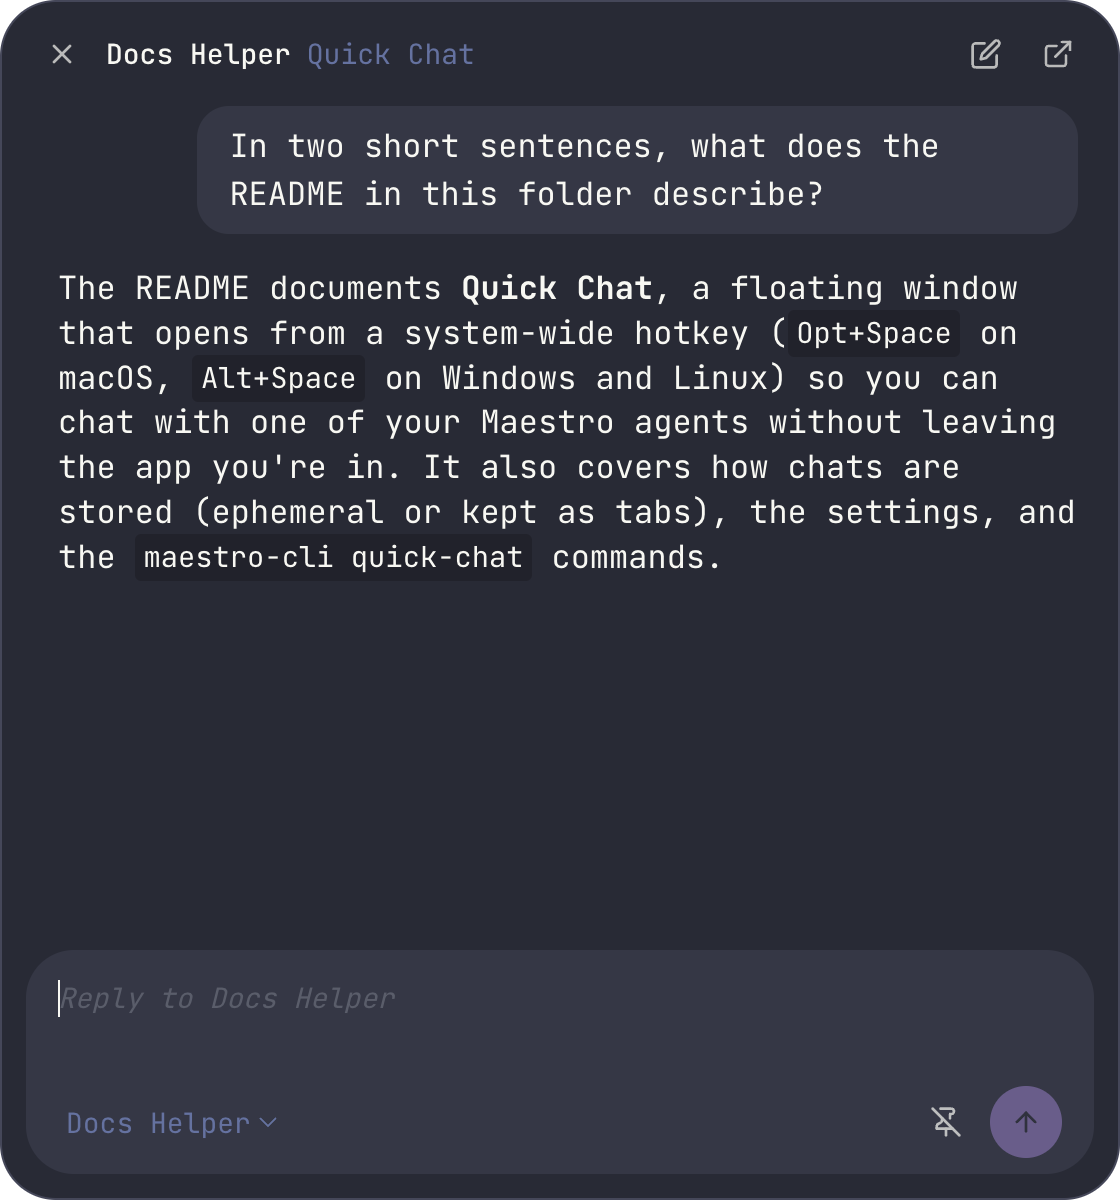
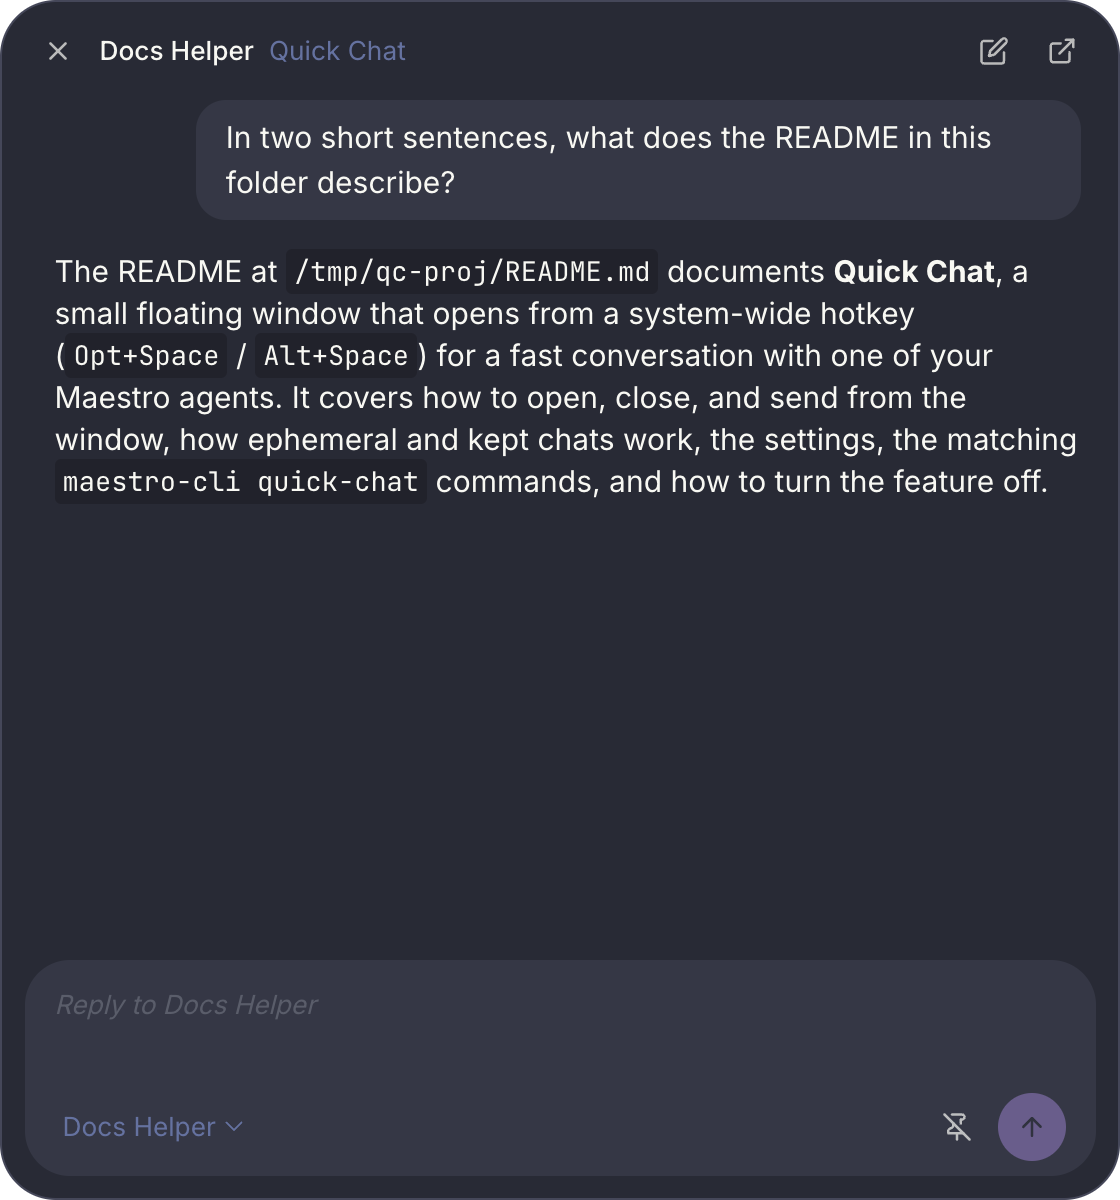
fix(quick-chat): honor the user's typography and follow settings changes
The Quick Chat window boots its own renderer and never ran useSettings, so
it loaded settings once and then ignored them: every glyph came out in the
store-default monospace face whatever typography the user had picked, and a
theme or font changed in the main window never reached it.

The two settings side effects every window needs, publishing the typography
CSS variables and reloading on settings:externalChange, move out of
useSettings into useWindowSettingsSync. useSettings calls the halves, and
QuickChatRoot calls the whole hook, so both windows share one effect.

Re-shoots the docs screenshot in the Default typography preset, and records
in SCREENSHOT-CAPTURE.md that one-off shots follow the same rule.

diff --git a/src/renderer/hooks/settings/useWindowSettingsSync.ts b/src/renderer/hooks/settings/useWindowSettingsSync.ts
@@ -1,0 +1,102 @@
+/**
+ * The settings side effects every renderer window needs, whatever it renders.
+ *
+ * The main window gets these through `useSettings`. A secondary window that
+ * boots its own renderer and mounts a single view (Quick Chat) does not run
+ * `useSettings`, and before these were pulled out of it that window loaded the
+ * settings once and then ignored them: its text came out in the store-default
+ * monospace face whatever typography the user had picked, and a theme or font
+ * changed in the main window never reached it.
+ */
+
+import { useEffect } from 'react';
+import { useStoreWithEqualityFn } from 'zustand/traditional';
+import { shallow } from 'zustand/shallow';
+import { loadAllSettings, useSettingsStore, type SettingsStore } from '../../stores/settingsStore';
+import { applyTypographyVars } from '../../utils/applyTypographyVars';
+import { logger } from '../../utils/logger';
+
+const selectTypography = (s: SettingsStore) => ({
+	settingsLoaded: s.settingsLoaded,
+	fontFamily: s.fontFamily,
+	chatFontFamily: s.chatFontFamily,
+	terminalFontFamily: s.terminalFontFamily,
+	filePreviewFontFamily: s.filePreviewFontFamily,
+	fileEditorFontFamily: s.fileEditorFontFamily,
+	documentGraphFontFamily: s.documentGraphFontFamily,
+	fontSize: s.fontSize,
+	chatFontSize: s.chatFontSize,
+	terminalFontSize: s.terminalFontSize,
+	filePreviewFontSize: s.filePreviewFontSize,
+	fileEditorFontSize: s.fileEditorFontSize,
+	documentGraphFontSize: s.documentGraphFontSize,
+	fontZoom: s.fontZoom,
+});
+
+/**
+ * Publish the resolved typography as CSS custom properties on the document
+ * root, and set the root font-size so rem-based Tailwind spacing scales.
+ *
+ * The custom properties are how a font setting reaches surfaces no prop can
+ * carry: everything that portals to document.body and every `font-mono`
+ * utility. See applyTypographyVars.
+ *
+ * Gated on settingsLoaded so the window does not paint at the default size and
+ * then jump to the saved one.
+ */
+export function usePublishTypographyVars(): void {
+	const t = useStoreWithEqualityFn(useSettingsStore, selectTypography, shallow);
+	useEffect(() => {
+		if (!t.settingsLoaded) return;
+		applyTypographyVars({
+			fonts: {
+				interface: t.fontFamily,
+				chat: t.chatFontFamily,
+				terminal: t.terminalFontFamily,
+				filePreview: t.filePreviewFontFamily,
+				fileEditor: t.fileEditorFontFamily,
+				documentGraph: t.documentGraphFontFamily,
+			},
+			sizes: {
+				interface: t.fontSize,
+				chat: t.chatFontSize,
+				terminal: t.terminalFontSize,
+				filePreview: t.filePreviewFontSize,
+				fileEditor: t.fileEditorFontSize,
+				documentGraph: t.documentGraphFontSize,
+			},
+			baseSize: t.fontSize,
+			zoom: t.fontZoom,
+		});
+	}, [t]);
+}
+
+/**
+ * Reload settings when they change outside this window: `maestro-cli settings
+ * set`, a hand edit of the file, or a write from another window (main notifies
+ * every peer window, never the writer itself).
+ */
+export function useReloadSettingsOnExternalChange(): void {
+	useEffect(() => {
+		if (!window.maestro?.settings?.onExternalChange) {
+			return;
+		}
+		const cleanup = window.maestro.settings.onExternalChange(() => {
+			logger.info('[Settings] External settings change detected, reloading');
+			loadAllSettings();
+		});
+		return cleanup;
+	}, []);
+}
+
+/**
+ * Everything a secondary renderer window needs to honor the user's settings:
+ * load them once, follow changes made elsewhere, and publish the typography.
+ */
+export function useWindowSettingsSync(): void {
+	useEffect(() => {
+		void loadAllSettings();
+	}, []);
+	useReloadSettingsOnExternalChange();
+	usePublishTypographyVars();
+}

diff --git a/src/__tests__/renderer/hooks/useWindowSettingsSync.test.ts b/src/__tests__/renderer/hooks/useWindowSettingsSync.test.ts
@@ -1,0 +1,76 @@
+/**
+ * useWindowSettingsSync - the settings side effects a secondary window (Quick
+ * Chat) needs without running useSettings. Before it existed that window
+ * loaded settings once and never applied them: its text stayed in the
+ * store-default monospace face whatever typography the user picked, and a
+ * change made in the main window never reached it.
+ */
+
+import { describe, it, expect, vi, beforeEach, afterEach } from 'vitest';
+import { renderHook, act, waitFor } from '@testing-library/react';
+import { useWindowSettingsSync } from '../../../renderer/hooks/settings/useWindowSettingsSync';
+import { useSettingsStore } from '../../../renderer/stores/settingsStore';
+
+const SANS = 'Inter, sans-serif';
+
+describe('useWindowSettingsSync', () => {
+	let originalFontSize: string;
+
+	beforeEach(() => {
+		useSettingsStore.setState({
+			settingsLoaded: false,
+			fontFamily: 'Roboto Mono, Menlo, "Courier New", monospace',
+			fontSize: 14,
+		});
+		vi.clearAllMocks();
+		originalFontSize = document.documentElement.style.fontSize;
+		vi.mocked(window.maestro.settings.getAll).mockResolvedValue({ fontFamily: SANS, fontSize: 16 });
+		vi.mocked(window.maestro.settings.get).mockResolvedValue(undefined);
+		vi.mocked(window.maestro.settings.onExternalChange).mockReturnValue(() => {});
+	});
+
+	afterEach(() => {
+		document.documentElement.style.fontSize = originalFontSize;
+		document.documentElement.style.removeProperty('--maestro-font-interface');
+	});
+
+	it('loads settings and publishes the saved typography on the document root', async () => {
+		renderHook(() => useWindowSettingsSync());
+
+		await waitFor(() => expect(useSettingsStore.getState().settingsLoaded).toBe(true));
+		await waitFor(() => expect(document.documentElement.style.fontSize).toBe('16px'));
+		expect(document.documentElement.style.getPropertyValue('--maestro-font-interface')).toContain(
+			'Inter'
+		);
+	});
+
+	it('follows a typography change made after load', async () => {
+		renderHook(() => useWindowSettingsSync());
+		await waitFor(() => expect(document.documentElement.style.fontSize).toBe('16px'));
+
+		act(() => {
+			useSettingsStore.setState({ fontSize: 18 });
+		});
+
+		expect(document.documentElement.style.fontSize).toBe('18px');
+	});
+
+	it('reloads settings when another window or the CLI changes them', async () => {
+		let notify: (() => void) | undefined;
+		vi.mocked(window.maestro.settings.onExternalChange).mockImplementation(
+			(handler: () => void) => {
+				notify = handler;
+				return () => {};
+			}
+		);
+
+		renderHook(() => useWindowSettingsSync());
+		await waitFor(() => expect(document.documentElement.style.fontSize).toBe('16px'));
+		expect(notify).toBeTypeOf('function');
+
+		vi.mocked(window.maestro.settings.getAll).mockResolvedValue({ fontFamily: SANS, fontSize: 20 });
+		act(() => notify?.());
+
+		await waitFor(() => expect(document.documentElement.style.fontSize).toBe('20px'));
+	});
+});

diff --git a/src/renderer/hooks/settings/useSettings.ts b/src/renderer/hooks/settings/useSettings.ts
@@ -52,7 +52,10 @@ import { logger } from '../../utils/logger';
 import type { TypographySurface } from '../../../shared/typography';
 import type { TypographyPresetId } from '../../../shared/typographyPresets';
 import type { TypographySnapshot } from '../../../shared/typographySnapshot';
-import { applyTypographyVars } from '../../utils/applyTypographyVars';
+import {
+	usePublishTypographyVars,
+	useReloadSettingsOnExternalChange,
+} from './useWindowSettingsSync';
 
 export interface UseSettingsReturn {
 	// Loading state
@@ -613,65 +616,9 @@ export function useSettings(): UseSettingsReturn {
 		return cleanup;
 	}, []);
 
-	// Reload settings when external change detected (e.g., maestro-cli settings set)
-	useEffect(() => {
-		if (!window.maestro?.settings?.onExternalChange) {
-			return;
-		}
-		const cleanup = window.maestro.settings.onExternalChange(() => {
-			logger.info('[Settings] External settings change detected, reloading');
-			loadAllSettings();
-		});
-		return cleanup;
-	}, []);
-
-	// Publish the resolved typography as CSS custom properties on the document
-	// root, and set the root font-size so rem-based Tailwind spacing scales.
-	//
-	// The custom properties are how a font setting reaches surfaces no prop can
-	// carry: everything that portals to document.body (47 components) and every
-	// `font-mono` utility (~200 sites). See applyTypographyVars.
-	//
-	// Gated on settingsLoaded so the app does not paint at the default size and
-	// then jump to the saved one.
-	useEffect(() => {
-		if (!store.settingsLoaded) return;
-		applyTypographyVars({
-			fonts: {
-				interface: store.fontFamily,
-				chat: store.chatFontFamily,
-				terminal: store.terminalFontFamily,
-				filePreview: store.filePreviewFontFamily,
-				fileEditor: store.fileEditorFontFamily,
-				documentGraph: store.documentGraphFontFamily,
-			},
-			sizes: {
-				interface: store.fontSize,
-				chat: store.chatFontSize,
-				terminal: store.terminalFontSize,
-				filePreview: store.filePreviewFontSize,
-				fileEditor: store.fileEditorFontSize,
-				documentGraph: store.documentGraphFontSize,
-			},
-			baseSize: store.fontSize,
-			zoom: store.fontZoom,
-		});
-	}, [
-		store.settingsLoaded,
-		store.fontFamily,
-		store.chatFontFamily,
-		store.terminalFontFamily,
-		store.filePreviewFontFamily,
-		store.fileEditorFontFamily,
-		store.documentGraphFontFamily,
-		store.fontSize,
-		store.chatFontSize,
-		store.terminalFontSize,
-		store.filePreviewFontSize,
-		store.fileEditorFontSize,
-		store.documentGraphFontSize,
-		store.fontZoom,
-	]);
+	// Shared with every secondary window (see useWindowSettingsSync).
+	useReloadSettingsOnExternalChange();
+	usePublishTypographyVars();
 
 	// Surface global-hotkey registration failures (e.g. combo already owned by
 	// another app). Mounted here so the toast fires even when Settings is closed.

diff --git a/src/renderer/quickChat/QuickChatRoot.tsx b/src/renderer/quickChat/QuickChatRoot.tsx
@@ -20,7 +20,7 @@ import {
 	type QuickChatSnapshot,
 } from '../../shared/quickChat';
 import { formatDurationHuman } from '../../shared/duration';
-import { loadAllSettings } from '../stores/settingsStore';
+import { useWindowSettingsSync } from '../hooks/settings/useWindowSettingsSync';
 import { useResolvedTheme } from '../hooks/ui/useResolvedTheme';
 import { useStickToBottom } from '../hooks/ui/useStickToBottom';
 import { useAutosizeTextarea } from '../hooks/ui/useAutosizeTextarea';
@@ -117,10 +117,9 @@ export function QuickChatRoot() {
 	const [error, setError] = useState<string | null>(null);
 	const textareaRef = useRef<HTMLTextAreaElement>(null);
 
-	// This window boots its own renderer, so hydrate settings (the theme) here.
-	useEffect(() => {
-		void loadAllSettings();
-	}, []);
+	// This window boots its own renderer and never runs useSettings: load the
+	// settings, follow changes made in the main window, and apply the typography.
+	useWindowSettingsSync();
 
 	useEffect(() => {
 		const offSnapshot = window.maestro.quickChat.onSnapshot(setSnapshot);

diff --git a/docs/agent-guides/CANONICAL-UTILITIES.md b/docs/agent-guides/CANONICAL-UTILITIES.md
@@ -284,6 +284,7 @@ The complete, reasoned entry for every commonly-reimplemented function in the co
 - **Event listeners:** `useEventListener()` in `src/renderer/hooks/utils/useEventListener.ts` (do NOT pair raw `addEventListener`/`removeEventListener` inside useEffect)
 - **Debounce/throttle:** `useDebouncedValue()`, `useDebouncedCallback()`, `useThrottledCallback()` in `src/renderer/hooks/utils/useThrottle.ts` (filename is misleading - all three live here)
 - **Identity-stable callback:** `useStableCallback()` in `src/renderer/hooks/utils/useStableCallback.ts` - one identity forever, always calling the newest implementation. Reach for it when a new callback identity is read as a STRUCTURAL change rather than a fresh value. The canonical case is `createMarkdownComponents()`: it builds a fresh map of component functions, so rebuilding it gives React a new component TYPE for every element and it unmounts and remounts the entire rendered document, discarding the reader's scroll position and restarting images and Mermaid. Any callback that closes over document content (a task-checkbox toggle, for instance) is reborn on every edit and triggers exactly that. Do NOT use it to silence an exhaustive-deps warning - it hides the callback from dependency arrays, so an effect that should re-run when its captured values change no longer will.
+- **Honoring the user's settings in a secondary window:** `useWindowSettingsSync()`, `usePublishTypographyVars()`, `useReloadSettingsOnExternalChange()` in `src/renderer/hooks/settings/useWindowSettingsSync.ts`. A window that boots its own renderer and mounts one view (Quick Chat) does not run `useSettings`, which is where the main window loads settings, follows changes made elsewhere, and publishes the typography CSS variables. Without those side effects the window loads the store defaults and stays there: Quick Chat shipped drawing every glyph in the store-default monospace face whatever typography the user had picked, and a theme or font changed in the main window never reached it. Call `useWindowSettingsSync()` once at the root of any such window. `useSettings` runs the two halves itself, so the main window and every secondary window publish typography through one effect. Peer windows hear about a write through `settings:externalChange` (`notifyPeerWindows` in `src/main/ipc/handlers/persistence.ts`); the writer is deliberately never echoed. Do NOT hand-roll another `applyTypographyVars` effect or `onExternalChange` listener in a new window.
 
 ## Phone and touch (web-desktop)
 

diff --git a/docs/agent-guides/SCREENSHOT-CAPTURE.md b/docs/agent-guides/SCREENSHOT-CAPTURE.md
@@ -82,6 +82,19 @@ loaded out of `src/shared/typographyPresets.ts` rather than copied into the seed
 JSON, so retuning the Default face moves the published set on the next run.
 Pass `--typography hacker` to shoot the monospace look deliberately.
 
+**A one-off shot taken outside this pipeline follows the same rule.** Every
+screenshot in `docs/` is in the Default preset, including the single-surface
+ones taken by hand against a fresh `MAESTRO_DEMO_DIR` profile (a floating
+window, a dialog the showcase set does not cover). A fresh profile boots into
+the store default, which is the monospace look, so apply the preset before
+shooting. Write the fonts AND the sizes, the same twelve values `setup.js`
+writes: `applyTypographyPreset('default')` in the settings store sets only the
+fonts, which leaves the interface at the historical 14px instead of Default's
+15px. Check the result on the surface itself (`getComputedStyle(document.body)
+.fontFamily` should start with `Inter`) rather than on the store, because a
+secondary window that does not run `useWindowSettingsSync()` ignores the store
+entirely; that is how the first Quick Chat screenshot shipped in monospace.
+
 **The seed widens both side panels, deliberately.** `leftSidebarWidth` and
 `rightPanelWidth` in the seed settings are 470 and 575 against app defaults of
 256 and 384. The app's defaults are the MINIMUM each panel supports, and at the

diff --git a/CLAUDE.md b/CLAUDE.md
@@ -325,6 +325,7 @@ Keep rationale OUT of this list. `npm run docs:verify` fails when an index line 
 - **Event listeners:** `useEventListener()` in `src/renderer/hooks/utils/useEventListener.ts` (do NOT pair raw `addEventListener`/`removeEventListener` inside useEffect)
 - **Debounce/throttle:** `useDebouncedValue()`, `useDebouncedCallback()`, `useThrottledCallback()` in `src/renderer/hooks/utils/useThrottle.ts` (filename is misleading - all three live here)
 - **Identity-stable callback:** `useStableCallback()` in `src/renderer/hooks/utils/useStableCallback.ts`
+- **Honoring the user's settings in a secondary window:** `useWindowSettingsSync()`, `usePublishTypographyVars()`, `useReloadSettingsOnExternalChange()` in `src/renderer/hooks/settings/useWindowSettingsSync.ts`
 
 #### Phone and touch (web-desktop)
 
